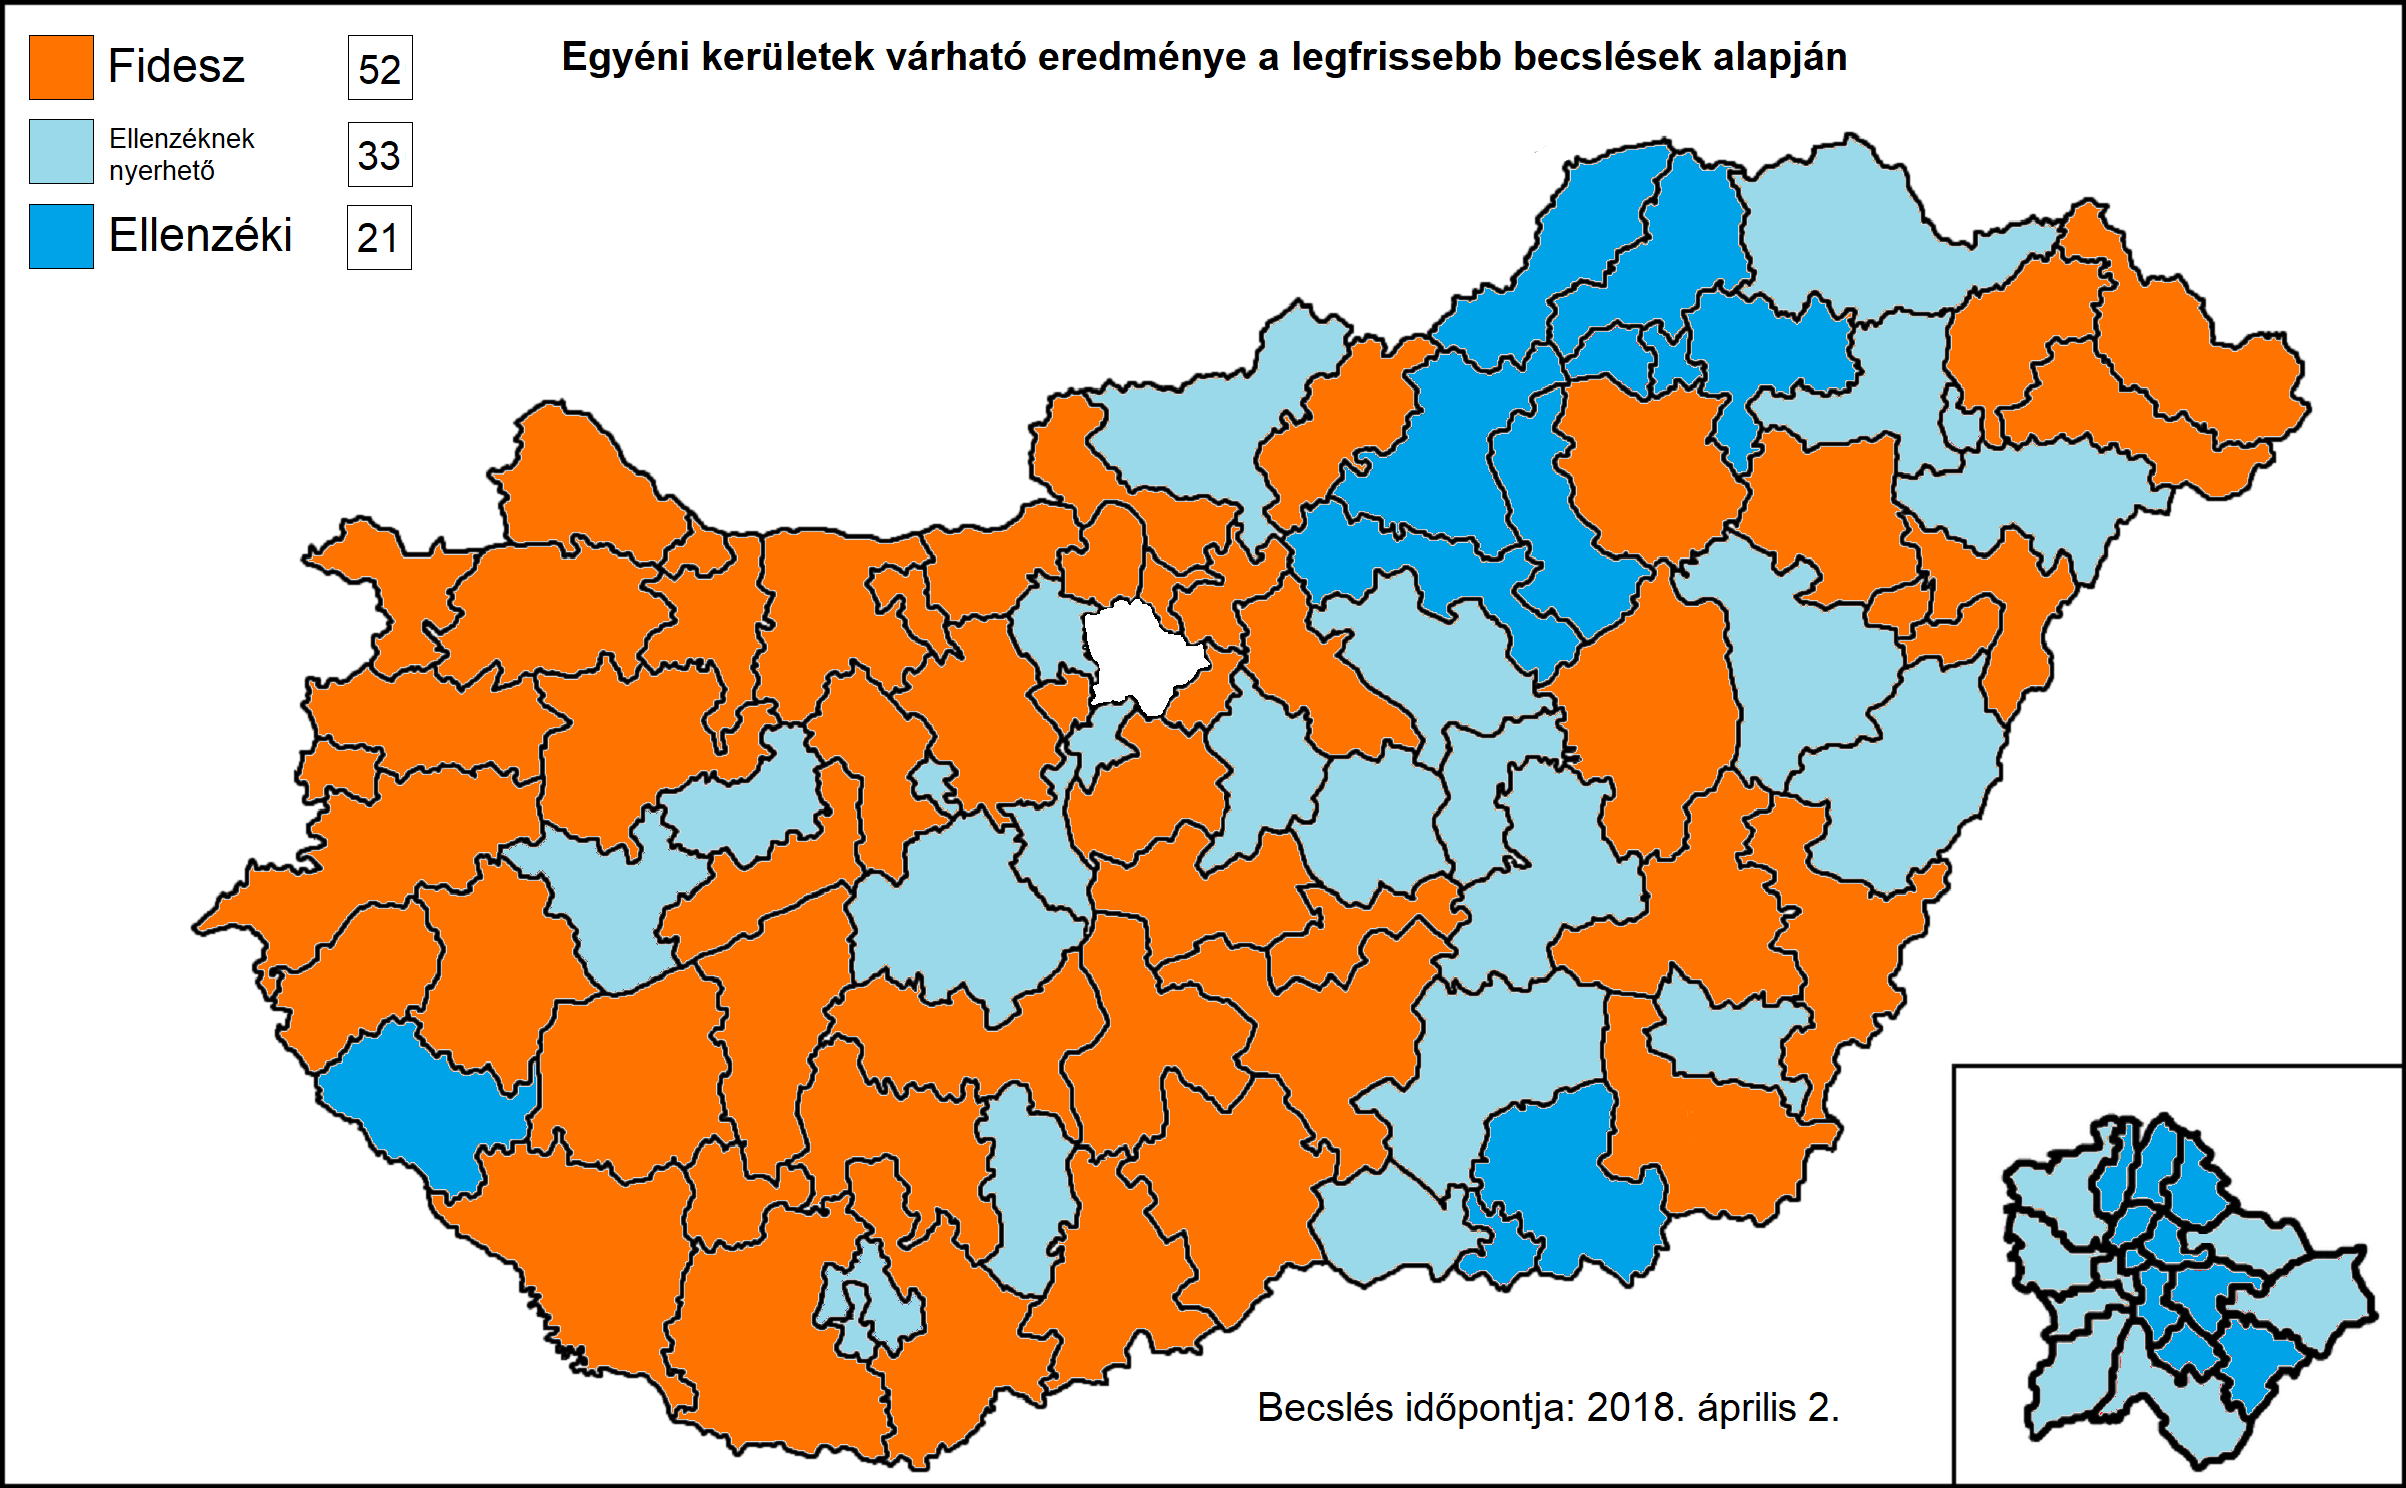
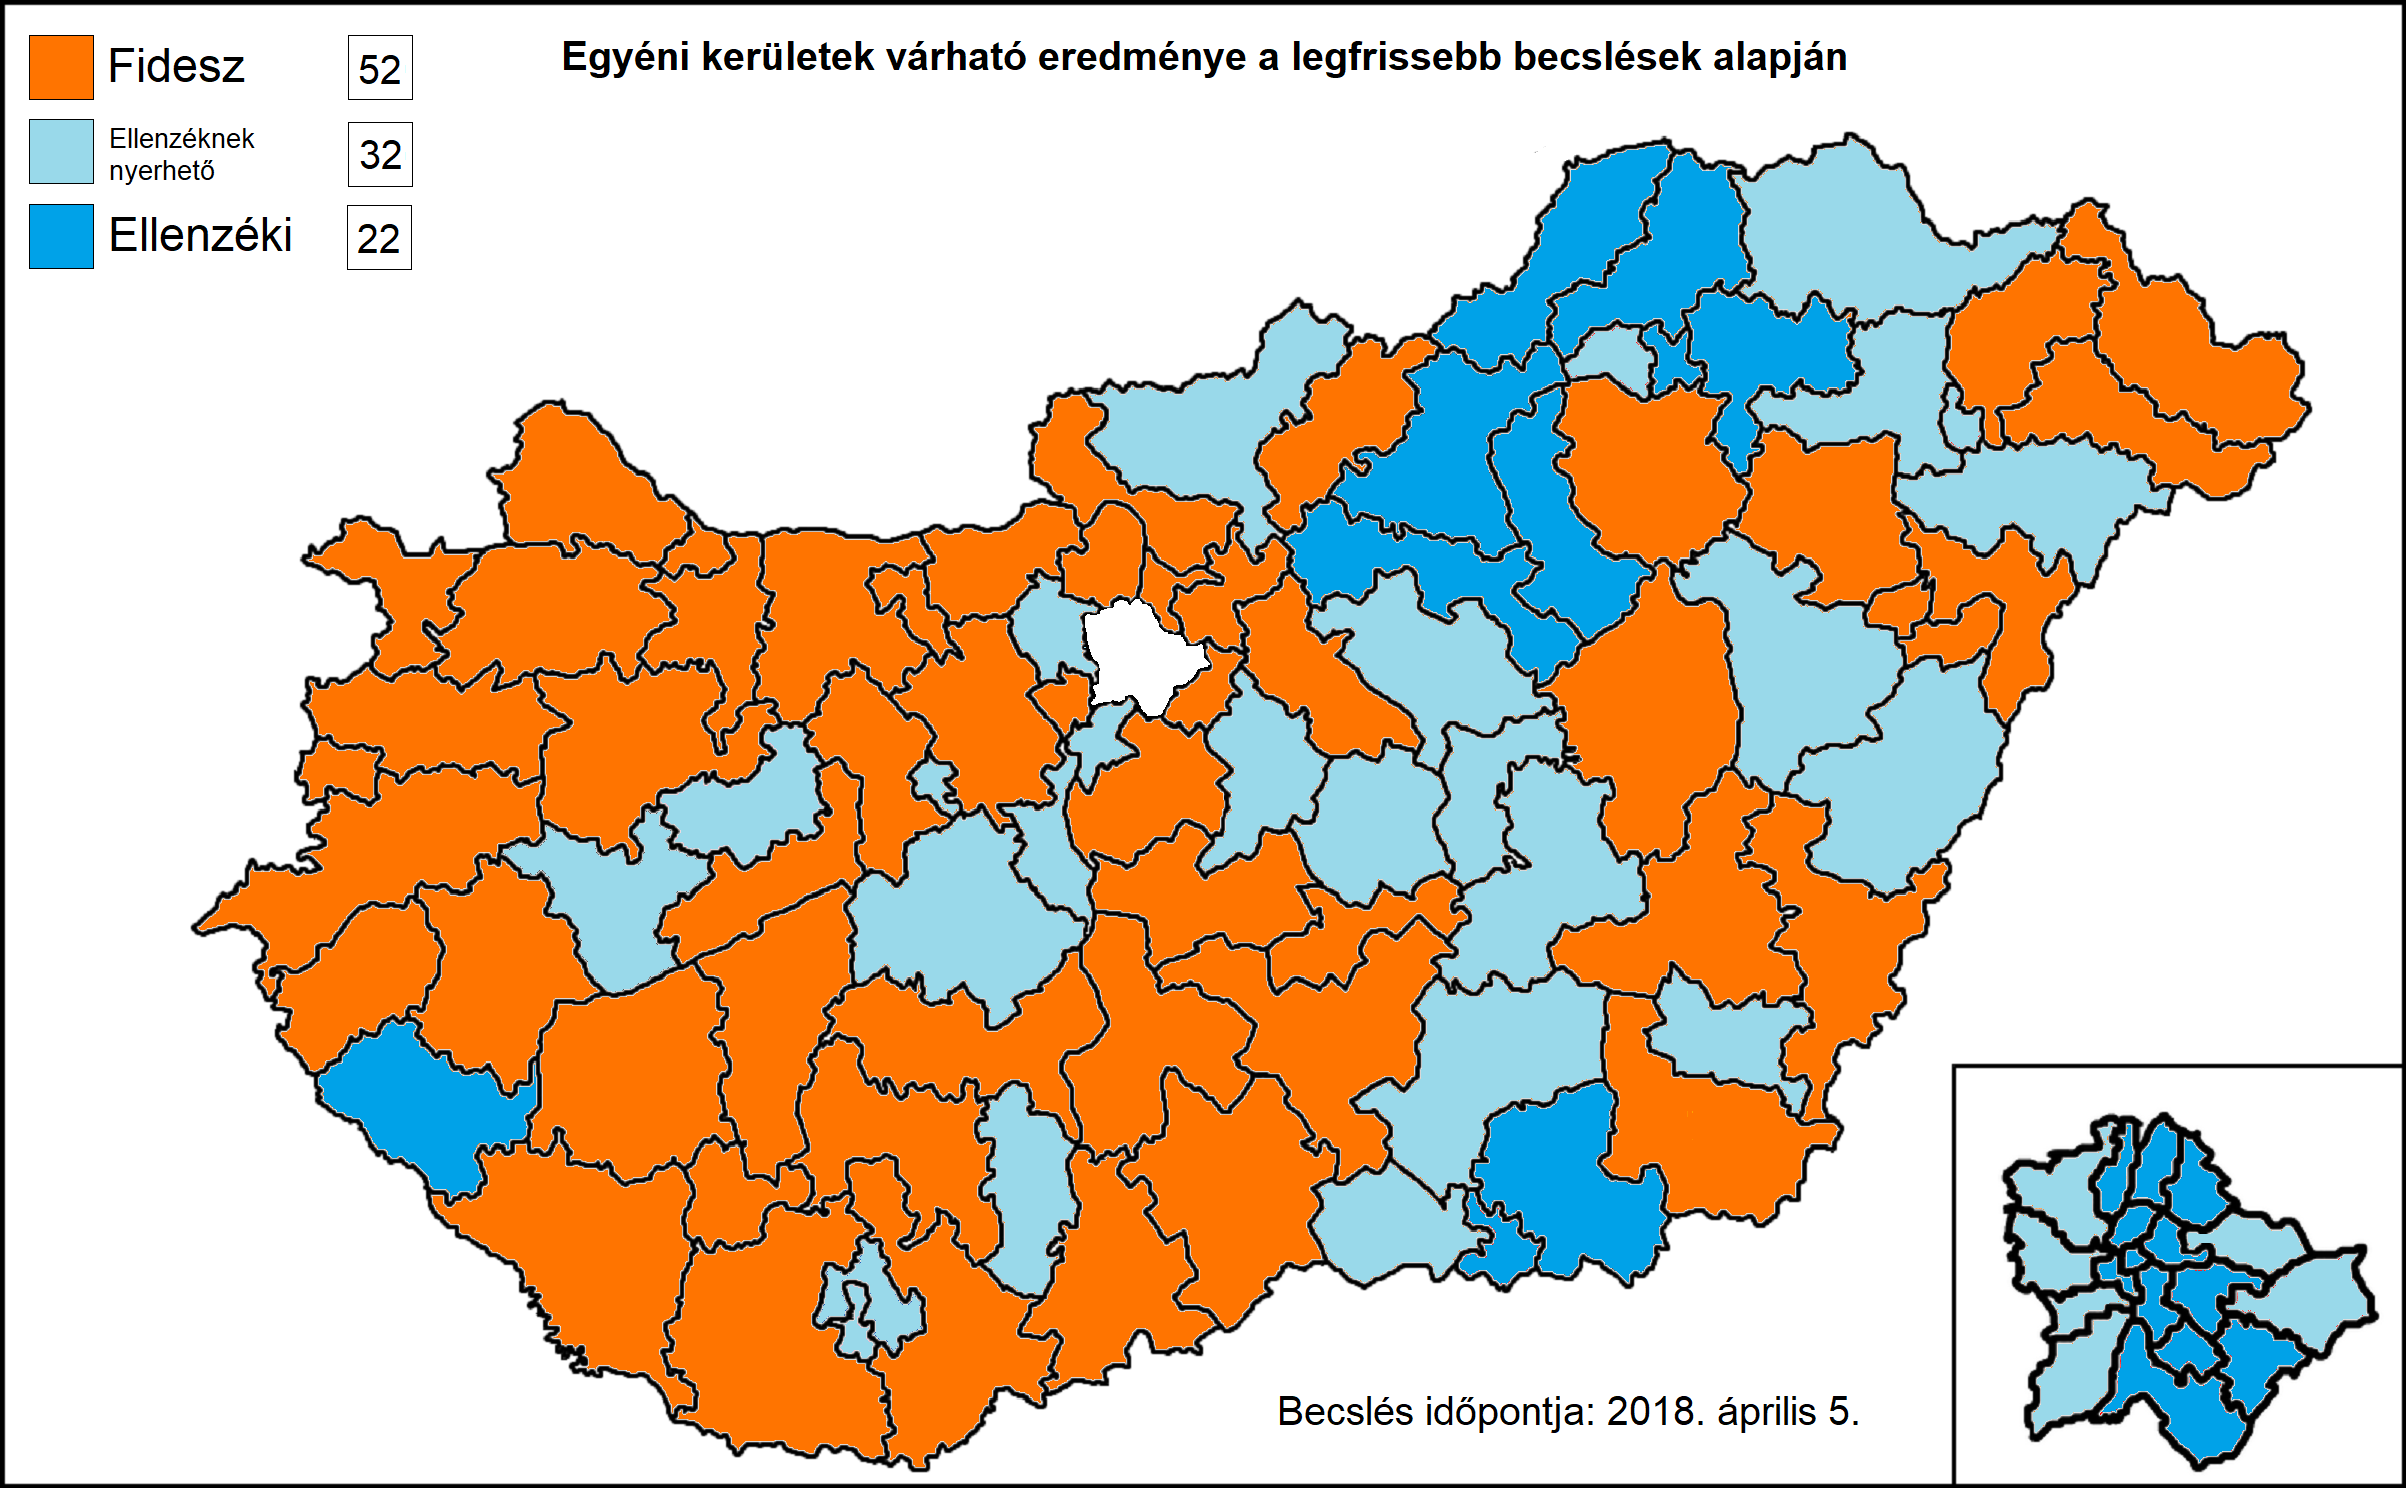
updates

diff --git a/_layouts/home.html b/_layouts/home.html
@@ -5,7 +5,7 @@ layout: default
    <div class="container">
      <div class="row">
 <div class="col l3"><a href="../"><img src="images/vote_cover.png"></a>
-<a href="../"><h5 class="red accent-3"><span style="color: white;">taktikaiszavazas.hu</span></h5>
+<a href="../"><h5 class="red accent-3"><span style="color: white;">taktikaiszavazas.hu</span></a></h5>
 
 <div class="col l7 offset-l1 center">
       <h3 class="header">"Listára szívvel, egyénire ésszel!"</h3>

diff --git a/mandatumbecsles.md b/mandatumbecsles.md
@@ -27,24 +27,24 @@ permalink: /mandatumbecsles
               <tbody>
              <tr>
                   <td>Fidesz</td>
-				  <td>85</td>
-				  <td>37</td>
-				  <td>122</td>
-				  <td>61.5%</td>
+				  <td>84</td>
+				  <td>36</td>
+				  <td>120</td>
+				  <td>60.5%</td>
 			</tr>
 			<tr>
 				  <td>Jobbik</td>
-				  <td>10</td>
+				  <td>9</td>
 				  <td>25</td>
-				  <td>35</td>
-				  <td>17.5%</td>
+				  <td>34</td>
+				  <td>17.0%</td>
 			</tr>
 			<tr>
                   <td>MSZP-Párbeszéd</td>
 				  <td>7</td>
-				  <td>14</td>
-				  <td>21</td>
-				  <td>10.5%</td>
+				  <td>15</td>
+				  <td>22</td>
+				  <td>11.0%</td>
 			</tr>
 			<tr>
 			      <td>DK</td>
@@ -55,17 +55,17 @@ permalink: /mandatumbecsles
 			</tr>
 			<tr>
 				 <td>LMP</td>
-				<td>0</td>
+				<td>1</td>
 				  <td>8</td>
-				  <td>8</td>
+				  <td>9</td>
 				  <td>4.0%</td>
 			</tr>
 			<tr>
-			<td>Független</td>
-				<td>0</td>
+			<td>Együtt</td>
+				<td>1</td>
 				  <td>0</td>
-				  <td>0</td>
-				  <td>0.0%</td>
+				  <td>1</td>
+				  <td>0.5%</td>
 			</tr>
 			<tr>
 			<td>Német nemzetiségi képviselő</td>
@@ -76,13 +76,14 @@ permalink: /mandatumbecsles
 			</tr>
               </tbody>
             </table>
-<h5>Eredmény: A Fidesz stabil többséget szerez a parlamentben 122 mandátummal.</h5>
+<h5>Eredmény: A Fidesz stabil többséget szerez a parlamentben 120 mandátummal.</h5>
 <br/>
-<h5><strong>Magasabb részvétel, átszavazás és koordináció mellett a Fidesz mandátumainak száma 102-re csökkenhet (szűk Fideszes többség).</strong></h5>
+<h5><strong>Magasabb részvétel, átszavazás és koordináció mellett a Fidesz mandátumainak száma 101-re csökkenhet (egy fős Fidesz többség).</strong></h5>
 <br/>
-<img src="images/parlamenti_patko.png" img="" style="height: 75%; width: 75%; align: middle; object-fit: contain">
+<img src="images/parlamenti_patko.png" img="" style="height: 50%; width: 50%; object-fit: contain">
+<img src="images/parlamenti_patko_2.png" img="" style="height: 50%; width: 50%; object-fit: contain">
 <br/>
-<h6>Utolsó frissítés: 2018. április 2.</h6>
+<h6>Utolsó frissítés: 2018. április 6.</h6>
           </div>
     </div>
 	
@@ -110,7 +111,7 @@ permalink: /mandatumbecsles
 				  <td>113</td>
 				  <td>112-123</td>
 				  <td>xxx</td>
-				  <td>xxx</td>
+				  <td>120</td>
 			</tr>
 			<tr>
                   <td>Jobbik</td>
@@ -118,7 +119,7 @@ permalink: /mandatumbecsles
 				  <td>29</td>
 				  <td>36-42</td>
 				  <td>xx</td>
-				  <td>xx</td>
+				  <td>34</td>
 			</tr>
 			<tr>
                   <td>MSZP-Párbeszéd</td>
@@ -126,7 +127,7 @@ permalink: /mandatumbecsles
 				  <td>33</td>
 				  <td>19-20</td>
 				  <td>xx</td>
-				  <td>xx</td>
+				  <td>22</td>
 			</tr>
 			<tr>
                   <td>DK</td>
@@ -134,7 +135,7 @@ permalink: /mandatumbecsles
 				  <td>13</td>
 				  <td>11-13</td>
 				  <td>xx</td>
-				  <td>xx</td>
+				  <td>12</td>
 			</tr>
 			<tr>
                   <td>LMP</td>
@@ -142,7 +143,7 @@ permalink: /mandatumbecsles
 				  <td>7</td>
 				  <td>6-8</td>
 				  <td>xx</td>
-				  <td>xx</td>
+				  <td>9</td>
 			</tr>
 			<tr>
                   <td>Egyéb</td>
@@ -150,7 +151,7 @@ permalink: /mandatumbecsles
 				  <td>4</td>
 				  <td>4</td>
 				  <td>xx</td>
-				  <td>xx</td>
+				  <td>2</td>
 			</tr>
               </tbody>
             </table>
@@ -182,25 +183,25 @@ permalink: /mandatumbecsles
               </thead>
               <tbody>
 <tr><td><a href="../bp1">Budapesti 1.</a></td>
-<td id="gyoztes_bp1">Fidesz</td>
-<td id="masodik_bp1">Váradiné Naszály Márta (MSZP-Párbeszéd)</td>
-<td id="kulonbseg_bp1">2.9%</td></tr>	
+<td id="gyoztes_bp1">Csárdi Antal (LMP)</td>
+<td id="masodik_bp1">Fidesz</td>
+<td id="kulonbseg_bp1">9.0%</td></tr>	
 <tr><td><a href="../bp2">Budapesti 2.</a></td>
 <td id="gyoztes_bp2">Fidesz</td>
 <td id="masodik_bp2">Gy. Németh Erzsébet (DK)</td>
-<td id="kulonbseg_bp2">6.4%</td></tr>	
+<td id="kulonbseg_bp2">5.1%</td></tr>	
 <tr><td><a href="../bp3">Budapesti 3.</a></td>
 <td id="gyoztes_bp3">Fidesz</td>
 <td id="masodik_bp3">Bauer Tamás (DK)</td>
-<td id="kulonbseg_bp3">10.1%</td></tr>	
+<td id="kulonbseg_bp3">8.5%</td></tr>	
 <tr><td><a href="../bp4">Budapesti 4.</a></td>
 <td id="gyoztes_bp4">Fidesz</td>
 <td id="masodik_bp4">Ungár Péter (LMP)</td>
-<td id="kulonbseg_bp4">15.8%</td></tr>	
+<td id="kulonbseg_bp4">15.4%</td></tr>	
 <tr><td><a href="../bp5">Budapesti 5.</a></td>
 <td id="gyoztes_bp5">Dr. Oláh Lajos (DK)</td>
 <td id="masodik_bp5">Fidesz</td>
-<td id="kulonbseg_bp5">2.6%</td></tr>	
+<td id="kulonbseg_bp5">4.1%</td></tr>	
 <tr><td><a href="../bp6">Budapesti 6.</a></td>
 <td id="gyoztes_bp6">Ara-Kovács Attila (DK)</td>
 <td id="masodik_bp6">Fidesz</td>
@@ -220,7 +221,7 @@ permalink: /mandatumbecsles
 <tr><td><a href="../bp10">Budapesti 10.</a></td>
 <td id="gyoztes_bp10">Szabó Tímea (MSZP-Párbeszéd)</td>
 <td id="masodik_bp10">Fidesz</td>
-<td id="kulonbseg_bp10">9.6%</td></tr>	
+<td id="kulonbseg_bp10">11.2%</td></tr>	
 <tr><td><a href="../bp11">Budapesti 11.</a></td>
 <td id="gyoztes_bp11">Varju László (DK)</td>
 <td id="masodik_bp11">Fidesz</td>
@@ -232,7 +233,7 @@ permalink: /mandatumbecsles
 <tr><td><a href="../bp13">Budapesti 13.</a></td>
 <td id="gyoztes_bp13">Fidesz</td>
 <td id="masodik_bp13">Vajda Zoltán (Együtt)</td>
-<td id="kulonbseg_bp13">17.5%</td></tr>	
+<td id="kulonbseg_bp13">7.1%</td></tr>	
 <tr><td><a href="../bp14">Budapesti 14.</a></td>
 <td id="gyoztes_bp14">Fidesz</td>
 <td id="masodik_bp14">Lukoczki Károly (MSZP-Párbeszéd)</td>
@@ -240,19 +241,19 @@ permalink: /mandatumbecsles
 <tr><td><a href="../bp15">Budapesti 15.</a></td>
 <td id="gyoztes_bp15">Kunhalmi Ágnes (MSZP-Párbeszéd)</td>
 <td id="masodik_bp15">Fidesz</td>
-<td id="kulonbseg_bp15">7.0%</td></tr>	
+<td id="kulonbseg_bp15">7.1%</td></tr>	
 <tr><td><a href="../bp16">Budapesti 16.</a></td>
 <td id="gyoztes_bp16">dr. Hiller István (MSZP-Párbeszéd)</td>
 <td id="masodik_bp16">Fidesz</td>
-<td id="kulonbseg_bp16">3.7%</td></tr>	
+<td id="kulonbseg_bp16">3.8%</td></tr>	
 <tr><td><a href="../bp17">Budapesti 17.</a></td>
-<td id="gyoztes_bp17">Fidesz</td>
-<td id="masodik_bp17">Szabó Szabolcs (Együtt)</td>
-<td id="kulonbseg_bp17">8.5%</td></tr>	
+<td id="gyoztes_bp17">Szabó Szabolcs (Együtt)</td>
+<td id="masodik_bp17">Fidesz</td>
+<td id="kulonbseg_bp17">6.3%</td></tr>	
 <tr><td><a href="../bp18">Budapesti 18.</a></td>
 <td id="gyoztes_bp18">Fidesz</td>
 <td id="masodik_bp18">Molnár Gyula (MSZP-Párbeszéd)</td>
-<td id="kulonbseg_bp18">2.1%</td></tr>	
+<td id="kulonbseg_bp18">1.1%</td></tr>	
 <tr><td><a href="../bk1">Bács-Kiskun megyei 1.</a></td>
 <td id="gyoztes_bk1">Fidesz</td>
 <td id="masodik_bk1">Lejer Zoltán (Jobbik)</td>
@@ -376,7 +377,7 @@ permalink: /mandatumbecsles
 <tr><td><a href="../gy1">Győr-Moson-Sopron megyei 1.</a></td>
 <td id="gyoztes_gy1">Fidesz</td>
 <td id="masodik_gy1">Glázer Tímea (DK)</td>
-<td id="kulonbseg_gy1">18.7%</td></tr>	
+<td id="kulonbseg_gy1">18.0%</td></tr>	
 <tr><td><a href="../gy2">Győr-Moson-Sopron megyei 2.</a></td>
 <td id="gyoztes_gy2">Fidesz</td>
 <td id="masodik_gy2">Greguss András (MSZP-Párbeszéd)</td>
@@ -396,7 +397,7 @@ permalink: /mandatumbecsles
 <tr><td><a href="../hb1">Hajdú-Bihar megyei 1.</a></td>
 <td id="gyoztes_hb1">Fidesz</td>
 <td id="masodik_hb1">Gulyásné dr. Gurmai Zita (MSZP-Párbeszéd)</td>
-<td id="kulonbseg_hb1">20.8%</td></tr>	
+<td id="kulonbseg_hb1">19.8%</td></tr>	
 <tr><td><a href="../hb2">Hajdú-Bihar megyei 2.</a></td>
 <td id="gyoztes_hb2">Fidesz</td>
 <td id="masodik_hb2">Kőszeghy Ábel (Jobbik)</td>
@@ -532,7 +533,7 @@ permalink: /mandatumbecsles
 <tr><td><a href="../szb1">Szabolcs-Szatmár-Bereg megyei 1.</a></td>
 <td id="gyoztes_szb1">Fidesz</td>
 <td id="masodik_szb1">Csabai Lászlóné (MSZP-Párbeszéd)</td>
-<td id="kulonbseg_szb1">3.5%</td></tr>	
+<td id="kulonbseg_szb1">2.9%</td></tr>	
 <tr><td><a href="../szb2">Szabolcs-Szatmár-Bereg megyei 2.</a></td>
 <td id="gyoztes_szb2">Fidesz</td>
 <td id="masodik_szb2">dr. Fülöp Erik (Jobbik)</td>

diff --git a/bp16.md b/bp16.md
@@ -27,12 +27,12 @@ permalink: /bp16
               <tbody>
              <tr>
                   <td>Földesi Gyula - Fidesz-KDNP <img src="images/fideszkdnp_logo.png" style="width:55px;height:30px;"></td>
-				   <td id="id_fidesz">35.1% &emsp; <span id="id_fidesz2">(35.6%)</span></td>
+				   <td id="id_fidesz">35.1% &emsp; <span id="id_fidesz2">(36.0%)</span></td>
 			</tr>
-			<tr><td>Bencsik János - Jobbik <img src="images/jobbik_logo.png" style="width:23px;height:30px;"></td> <td id="id_jobbik">16.9% &emsp; <span id="id_jobbik2">(12.8%)</span></td></tr>
+			<tr><td>Bencsik János - Jobbik <img src="images/jobbik_logo.png" style="width:23px;height:30px;"></td> <td id="id_jobbik">16.9% &emsp; <span id="id_jobbik2">(13.0%)</span></td></tr>
 <tr>
                   <td>dr. Hiller István - MSZP-Párbeszéd <img src="images/mszpparbeszed_logo.png" style="width:60px;height:30px;"></td>
-				   <td id="id_baloldal">29.0% &emsp; <span id="id_baloldal2">(39.4%)</span></td>
+				   <td id="id_baloldal">29.0% &emsp; <span id="id_baloldal2">(40.8%)</span></td>
 			</tr>
 			<tr>
                   <td>Ferenczi István - LMP <img src="images/lmp_logo.png" style="width:52px;height:30px;"></td>
